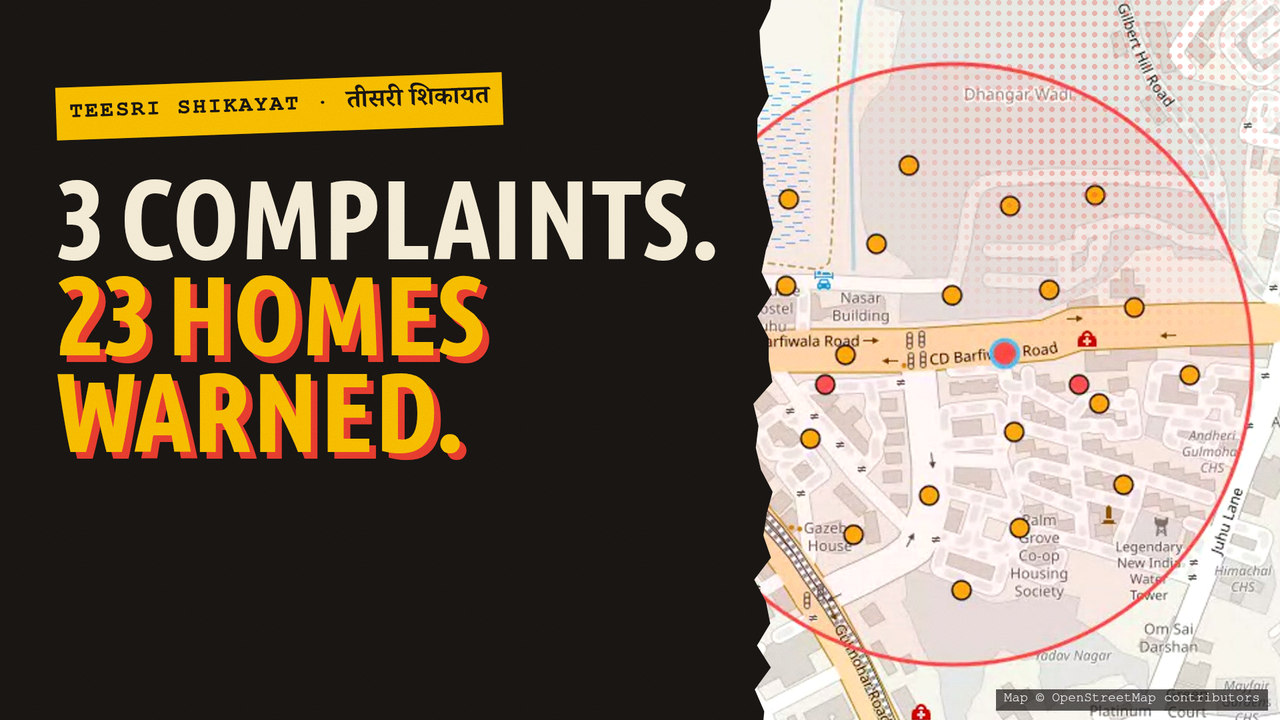
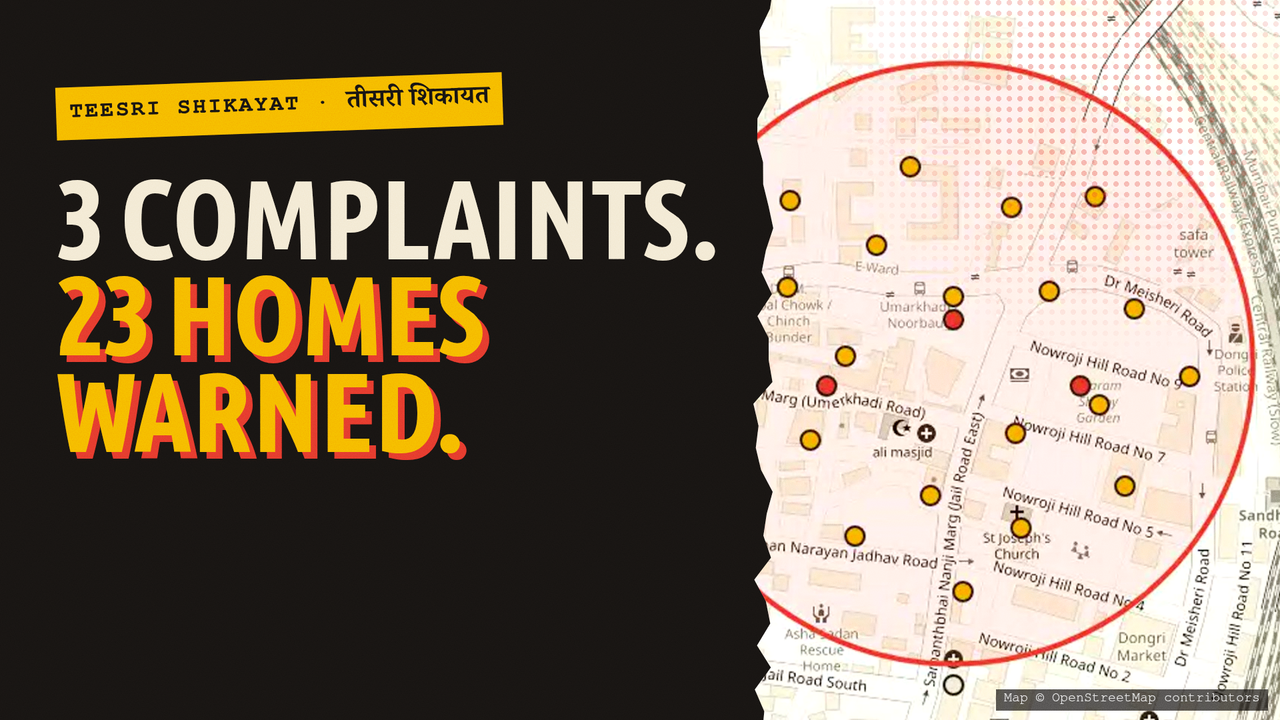
Video: console tour re-recorded on the maximalist console; title dot on the stand-in; README screenshots; state.md

Changed region(s): [[0.5938, 0.0, 1.0, 1.0]]

diff --git a/scripts/build_cards.py b/scripts/build_cards.py
@@ -32,7 +32,7 @@ D = json.loads((ROOT / "video/slides-data.json").read_text())
 E = html.escape
 FPS = 30
 # the ring as the map shows it at the cut into shot 3 (web tour crop [14, 250, 1062, 597] scaled to 1920x1080)
-RING = {"cx": 958, "cy": 555, "r": 402, "dots": [(788, 582, 13), (1127, 582, 13), (1028, 540, 16)]}
+RING = {"cx": 958, "cy": 555, "r": 402, "dots": [(789, 585, 13), (1129, 585, 13), (960, 496, 13)]}
 TEX = {}  # grain and stamp-speckle textures, rendered once (data uris)
 
 CSS = """

diff --git a/state.md b/state.md
@@ -1,6 +1,6 @@
 # State: what's built so far
 
-Last updated: Sat 10 Oct 2026, 13:27 IST · Event: WeMakeDevs × AWS Environmental Hacks (Heat and Water), Oct 8–11
+Last updated: Sat 10 Oct 2026, 14:05 IST · Event: WeMakeDevs × AWS Environmental Hacks (Heat and Water), Oct 8–11
 
 **Teesri Shikayat** ("the third complaint"): residents send Hindi voice notes about dirty tap water on Telegram. When 3 homes within 250 m report it inside 72 h, everyone enrolled nearby is warned, and only residents can close the case.
 
@@ -44,6 +44,7 @@ Last updated: Sat 10 Oct 2026, 13:27 IST · Event: WeMakeDevs × AWS Environment
 | Sat 10:14–11:18 | **Design pass** (Aryan: the shots looked AI-made; make them look like a senior designer's). One type and colour system across the video: Ubuntu Sans (condensed heavy for headlines, mono for labels), Noto Serif Devanagari for Hindi, ink background with a dot grid, amber as the signal colour, red only for deaths and the ring. **Motion cards** (`scripts/build_cards.py`, rewritten): each card is html animated frame by frame in Chromium (`seek(t)`, piped to ffmpeg), cued to the narration. Indore: a pipe draws in, the leak, complaints appear one by one and never join, then "36 deaths". Title: three dots and a ring form above the name, then grow onto the map's own ring, so the cut into shot 3 is a match cut. Mumbai: the count runs to 1,514 while a dot grid fills (one dot per complaint), then the SOP quote. Architecture: the diagram builds as a serpentine (listen, detect, act), then lights Step Functions, DynamoDB → Pipes → Tripwire (a report travels along) and Polly · SES on their words; it replaces the spotlight callouts. Cost: ₹1 with the 23 warned homes in a ring. Close: warning rings leave the cluster on the monsoon line, then the line and the links. **Footage** (`build_video.py`): phones in a rounded body with a shadow on the cards' background (shot 8's phone rises from the bottom edge), the AWS window and the PiP phone framed too; callouts restyled and rise into place; labels as pills; subtitles drawn by Chromium in a rounded pill (one image track); slow push-ins on the console shots (`push` now works on footage). New thumbnail in the same style (also from `build_cards.py`). Same narration and timing. Render 2:43.9, -15.0 LUFS; previous cut kept as `teesri-v3.mp4`. | `5b537d5` | ✅ render 11:15, every card and shot checked frame by frame |
 | Sat 11:24–11:55 | **Maximalist pass** (Aryan: the slides and text still looked AI-made; "use maximalism"). The look now comes from complaint paperwork and Indian street posters: newsprint and turmeric paper, torn clippings, tape, rubber stamps (inked speckle, the frame shakes when one lands), halftone, huge outlined Devanagari behind everything, film grain, condensed caps with hard offset shadows, a Palatino italic (P052) and a typewriter face (Courier 10 Pitch); palette ink, paper, stamp red, turmeric, ink blue, pink. Cards (`build_cards.py`, rewritten): Indore = a clipping "Sewage in the taps.", a pipe and its leak, complaint slips dropping one by one, then a black band "36 deaths" slams across (commission line under it); title = turmeric poster, तीसरी शिकायत wipes in, TEESRI SHIKAYAT stamps on, the ring still grows onto the map's ring; Mumbai = a pile of 1,514 complaint slips grows with the count, the SOP quote as a taped clipping, B ward on a pink sticky; architecture = stickers on a blueprint, marker rings drawn round each service as it is named; cost = a giant ₹1 and a printed receipt (homes 23, reopened 1, $0.0107, total ₹0.94) stamped MEASURED; close = a paper sheet over the turmeric-tinted map, "Closed at the tap," and a NOT ON PAPER. stamp. Footage text (`build_video.py`): callouts are paper notes with hard shadows and red tabs, labels are turmeric stickers, captions black bands with a red shadow, subtitles black with a turmeric edge; phones on a newsprint stage with a red hard shadow. Thumbnail in the same style. Same narration and timing. | `2ac1191` | ✅ render 11:51, every card and the phone shots checked |
 | Sat 12:16–12:40 | **Console shots in the maximalist look** (Aryan: the email and Safety screens still looked plain). The real console footage stays real but sits as a framed window (thick border, hard shadow, tape on the corners) on a poster stage, turmeric / blueprint blue / newsprint by shot (`stage` on a part); a typewriter tag above each says what it is, and red rubber stamps slam on at the spoken moment (`fx: slam` callouts, a zoompan from 2.2x): NO NAMES · NO NUMBERS on the ward email, CHECKED BY CEDAR on the Safety log, DENIED on the close_case row, REOPENED on the case, ≈10 DAYS' WARNING on the Indore replay. Shots 7 (console), 10, 11 (all but the phone), 12; the maps stay full-frame. Fix found on the way: the DENY zoom started 1 s too late, so "Cedar says no." landed after the console had flipped back to the phone wall; it now starts at +1.5 s (Safety tab is up 369.5–375.6). | `0cf36c4` | ✅ render 12:39 (2:44.0, -15.0 LUFS), console shots checked |
+| Sat 13:34–14:05 | **The console itself in the maximalist look, live and in the video** (Aryan: the email and Safety screens were still dark blue; restyle the deployed console). `console.html`: paper with a dot grid, ink header with a red/turmeric/blue/pink band, TEESRI SHIKAYAT in condensed caps + तीसरी शिकायत, cards with thick ink borders and hard shadows (map red, panel blue), a colour per tab, the map in warm greyscale so the dots carry the colour, the ring card as a black poster with turmeric numbers, the ward email as a typed letter (Courier Prime, Palatino italic subject, red shadow), ALLOW as blue rubber stamps, DENY as a tilted red slab, REOPENED tilted red, the Indore timeline in poster type. Red = dirty/denied, turmeric = warned, blue = clean/allowed. Fonts: Ubuntu Sans (Google Fonts, 75% width), Courier Prime, Noto Sans/Serif Devanagari; serif = P052 → Palatino Linotype → Palatino. The ◐ toggle now switches paper → ink. Layout boxes unchanged (header 64 px, cards at y 76, tabs 43 px, map centre 544,556), so every EDL crop holds. Deployed 13:41. **Console tour re-recorded** (stand-in, agent mode; model on 13:41, off 13:57): the first take flew to Andheri West, because the demo anchors on the phone's enrolled home, which is now 17.1 km away (see Open issues); that take was deleted and the demo reset. Added `anchor dongri\|phone` (`scenario.py`, `/api/action`); the stand-in tour sets `dongri` and restores `phone`. Second take 13:51: 11 beats in 109 s at Dongri, 3 homes · 212 m · 71 h, ~20,100 people, 20 of 23 never complained, agent email ALLOW, `close_case` DENY, REOPENED (the full-window shots show the pink "rehearsal: real phones muted" chip, which is true for that run). Old tour kept in `video/out/run-1450/`. Cards rebuilt from the new tour; the title's third dot moved to the stand-in (match cut checked by blending the frames). README screenshots retaken from the tour. Demo reset after. | `6fec257`, `180dccb`, this commit | ✅ deployed and checked live, tour frames checked at every EDL crop |
 
 **Tests:** 64 passing (`.venv/bin/python -m pytest -q`): agent mode with a scripted model (PII email DENY → redraft, close DENY → check-ins, brief checked by code, 6-call limit, fallback to templates), console API hides Telegram ids + rounds real homes, demo controls need the token and only answer for simulated homes, full case (brief, only the volunteer can approve, 23 warned / 20 never complained, email has no ids, ward claim → DENY, नहीं → REOPENED, 3 clean → CLOSED_AT_TAP), warning without approval DENY, closure quorum incl. silence ≠ closed, 5 Cedar policy tests, demo story end to end (3 homes · 212 m · 71 h, 23 enrolled in the ring, 20 never complained), one building + reset keeps real homes, ring population (partial cells, NO DATA never 0), tripwire (fire at 3 homes · 212 m · 71 h, one home 300 m away, 73 h span, same home ×3, clear water never counts, one building → tank advice once, 4th report joins, two simultaneous third reports → one incident, stream re-delivery), webhook secret, joining, declining deletes data, re-delivered updates ignored, model path, keyword reader (common complaint, negation, पीलिया ≠ पीला, never guesses, files without questions, Hinglish/English), typed complaints (filed, "गंदा" → buttons, chatter → hint), self-hosted model (heartbeat, schema extraction still validated + grounded, instance off → no request, goal budget, Strands text + tool calls through the queue, text-written tool call re-asked with grammar, a text answer after a DENY re-asked as a tool call), health claims grounded in the words, button fallback incl. double tap, voice before joining, geohash, distances, field validation, receipt text, "heard but no details" wording.
 
@@ -100,8 +101,8 @@ AWS_PROFILE=hackathon .venv/bin/python scripts/set_webhook.py            # only 
    - (d) ✅ Narration run and built (Fri 11:27). Listen to the voiced animatic once, especially "Teesri Shikayat" at 0:15 and 2:37 (moved with the 2:44 cut); if the respelling sounds wrong, drop `--take 6=b --take 37=b` from the build-voice command in `video/recording-checklist.md`. **Voice stays Chatterbox** (Aryan, Fri 13:10): Polly Kajal and Kokoro male Indian voices were tried and rejected; their files are deleted.
    - (e) Put the AI-tools line in `docs/writeup.md` in your own words.
    - (f) Optional SES test inbox: verify an address in SES, then `aws ssm put-parameter --name /teesri/ward-inbox` and `/teesri/mail-from`.
-5. ✅ **The video is cut** (Fri 19:19; judge passes Fri 21:25 and 22:16, design pass Sat 11:18, maximalist pass Sat 11:55, console pass Sat 12:40, see Done): `video/out/teesri.mp4`, **2:44.0** (4,919 frames; the render rounds it up from 2:43.9 now that no frames are lost), all real footage, no placeholders, -15 LUFS. Previous cuts: `teesri-v1.mp4`, `teesri-v2.mp4`, `teesri-v3.mp4` (before the design pass); the clean design pass (`5b537d5`) was not kept as a file, re-render it from that commit if needed. `video/out/teesri-720p-preview.mp4` (10 MB) is only for watching on the phone; upload the 1080p file. Thumbnail: `video/thumbnail.png` (maximalist, rebuilt by `build_cards.py`). Shot 1 = Pixabay tap clip (credited); shot 6 = the Hindi voice note alone between the two narration lines; garbled phone text fixed (see Done 18:20). Left: Aryan watches the maximalist 2:44 cut once with sound, including whether the four sound effects sit right (gains in `edl.json` → `sounds`: whoosh -7 dB, chimes -12 dB, error -10 dB; a change is one re-render, ~6 min; a card change is `build_cards.py` first, ~3 min); Aryan's items 4(d) (name at 0:15 and 2:37) and 4(e). Any change to the narration text means a new Colab run; any change to shot lengths means rebuilding `voice.wav` (`--length` = the last shot's end).
-6. **Sat 14:00 feature freeze** (fixes only after that). Recording and assembly are done (Fri); the look is final (maximalist cards, framed console shots, Sat 12:40), so after 14:00 only fixes Aryan asks for after watching. Sun: YouTube (unlisted, check signed out; title + description in `video/youtube.md`), thumbnail `video/thumbnail.png` (needs a phone-verified YouTube account, else pick a YouTube frame), paste `docs/writeup.md` into the form, submit hours before the deadline (plan: by Sun 16:00).
+5. ✅ **The video is cut** (Fri 19:19; judge passes Fri 21:25 and 22:16, design pass Sat 11:18, maximalist pass Sat 11:55, console pass Sat 12:40, console restyle + new tour Sat 14:05, see Done): `video/out/teesri.mp4`, **2:44.0** (4,919 frames; the render rounds it up from 2:43.9 now that no frames are lost), all real footage, no placeholders, -15 LUFS. Previous cuts: `teesri-v1.mp4`, `teesri-v2.mp4`, `teesri-v3.mp4` (before the design pass); the clean design pass (`5b537d5`) was not kept as a file, re-render it from that commit if needed. `video/out/teesri-720p-preview.mp4` (10 MB) is only for watching on the phone; upload the 1080p file. Thumbnail: `video/thumbnail.png` (maximalist, rebuilt by `build_cards.py`). Shot 1 = Pixabay tap clip (credited); shot 6 = the Hindi voice note alone between the two narration lines; garbled phone text fixed (see Done 18:20). Left: Aryan watches the maximalist 2:44 cut once with sound, including whether the four sound effects sit right (gains in `edl.json` → `sounds`: whoosh -7 dB, chimes -12 dB, error -10 dB; a change is one re-render, ~6 min; a card change is `build_cards.py` first, ~3 min); Aryan's items 4(d) (name at 0:15 and 2:37) and 4(e). Any change to the narration text means a new Colab run; any change to shot lengths means rebuilding `voice.wav` (`--length` = the last shot's end).
+6. **Sat 14:00 feature freeze** (fixes only after that). Recording and assembly are done (Fri); the look is final (maximalist cards, framed console shots, Sat 12:40; the console itself, live and in the video, Sat 14:05), so after 14:00 only fixes Aryan asks for after watching. Sun: YouTube (unlisted, check signed out; title + description in `video/youtube.md`), thumbnail `video/thumbnail.png` (needs a phone-verified YouTube account, else pick a YouTube frame), paste `docs/writeup.md` into the form, submit hours before the deadline (plan: by Sun 16:00).
 
 ## Open issues
 
@@ -110,7 +111,8 @@ AWS_PROFILE=hackathon .venv/bin/python scripts/set_webhook.py            # only 
 - **Agent behaviour varies run to run:** sometimes Gemma puts the reporters' contacts into the ward email, so a `send_evidence_email` DENY → redraft appears on the Safety tab, and sometimes it doesn't. The slot 10 narration ("Names and numbers never leave the lane. Cedar enforces that.") is true either way. Check the Safety tab after the recording run before writing any caption about it.
 - **Deadline hour not official yet, but the overview page's "Ends in" countdown targets Sun 11 Oct 20:00 IST** (`<time datetime="2026-10-11T14:30:00Z">`, seen Thu 23:29; re-checked Fri 11:57: the countdown is no longer in the page source, the schedule page still says "the hours are being finalised", and no submission form is linked yet). Plan to submit by Sun 16:00 and re-check Sat. Rules page: a submission is a public repo, a YouTube video up to 3 minutes (public or unlisted), and a short writeup (problem, build, where AWS fits); the form closes hard. Form link and fields not published yet.
 - Telegram Desktop can't be driven from this machine (Wayland, no automation); phone steps go through Telegram Web in Chrome (linked 18:37). The real-phone recording is done (Fri 14:48–15:25: join + two full runs).
-- The shot 9 caption ("20 of 23 … All 23") is fixed text in `video/edl.json`; it matches the recorded run 2 (23 homes warned, 3 of them reporters). Re-check only if the scenario changes.
+- The shot 9 caption ("20 of 23 … All 23") is fixed text in `video/edl.json`; it matches the recorded run 2 (23 homes warned, 3 of them reporters) and the Sat 13:51 console tour (stand-in at the Dongri pin, the phone's home outside the ring). Re-check only if the scenario changes.
+- **Aryan's phone home is no longer at Dongri** (seen Sat 13:47): the enrolled home is 17.1 km from the Dongri pin, in Andheri West (it was at Dongri for Friday's runs). The public `/api/state` shows real homes rounded to 3 decimals (~110 m), so the live console carries that point (off-screen, the map opens on Dongri). If that is Aryan's real home: share the Dongri venue again in the bot, or `/stop` (deletes the home). His call; I haven't touched it. Stand-in tours use `anchor dongri` so they don't depend on it.
 - **Narration clips are only on this machine:** `video/out/` is gitignored (`video/out/vo/`, `voice.wav`, `voice.srt`); backup zip `~/Downloads/vo-all.zip` (12.8 MB). The Colab runtime that made them is not needed any more (its tab may still be open in Chrome; "Leave" discards only scratch cells). Lost clips = rerun the notebook (~10 min) and redo the take swap in the checklist.
 - **Phone recordings have damaged keyframes** (scrcpy wrote truncated keyframes about every 30–40 s). Always decode them single-threaded (`ffmpeg -threads 1 -i …`), and check any new in-point frame by frame: run 2 is damaged at 70.6 s onward on the "भूरा" button and from 198.2 s on the purple voice-note bubble (shot 8 crops it out).
 - **Voice note through the air:** the laptop speaker → phone mic path loses the words (run 1: -34 dB, run 2: -29 dB but only "आ रहा है" heard). Clean take 2 transcribes exactly, so the fix is the acoustic path, not the take. **Worked around (Aryan, Fri 15:30):** no pickup; shot 6 lays the clean take 2 (`video/narration/voice-note-hi.flac`) over the phone footage, and the 2.5 s of button questions carry the label "If it can't make out the words, it asks with buttons".
